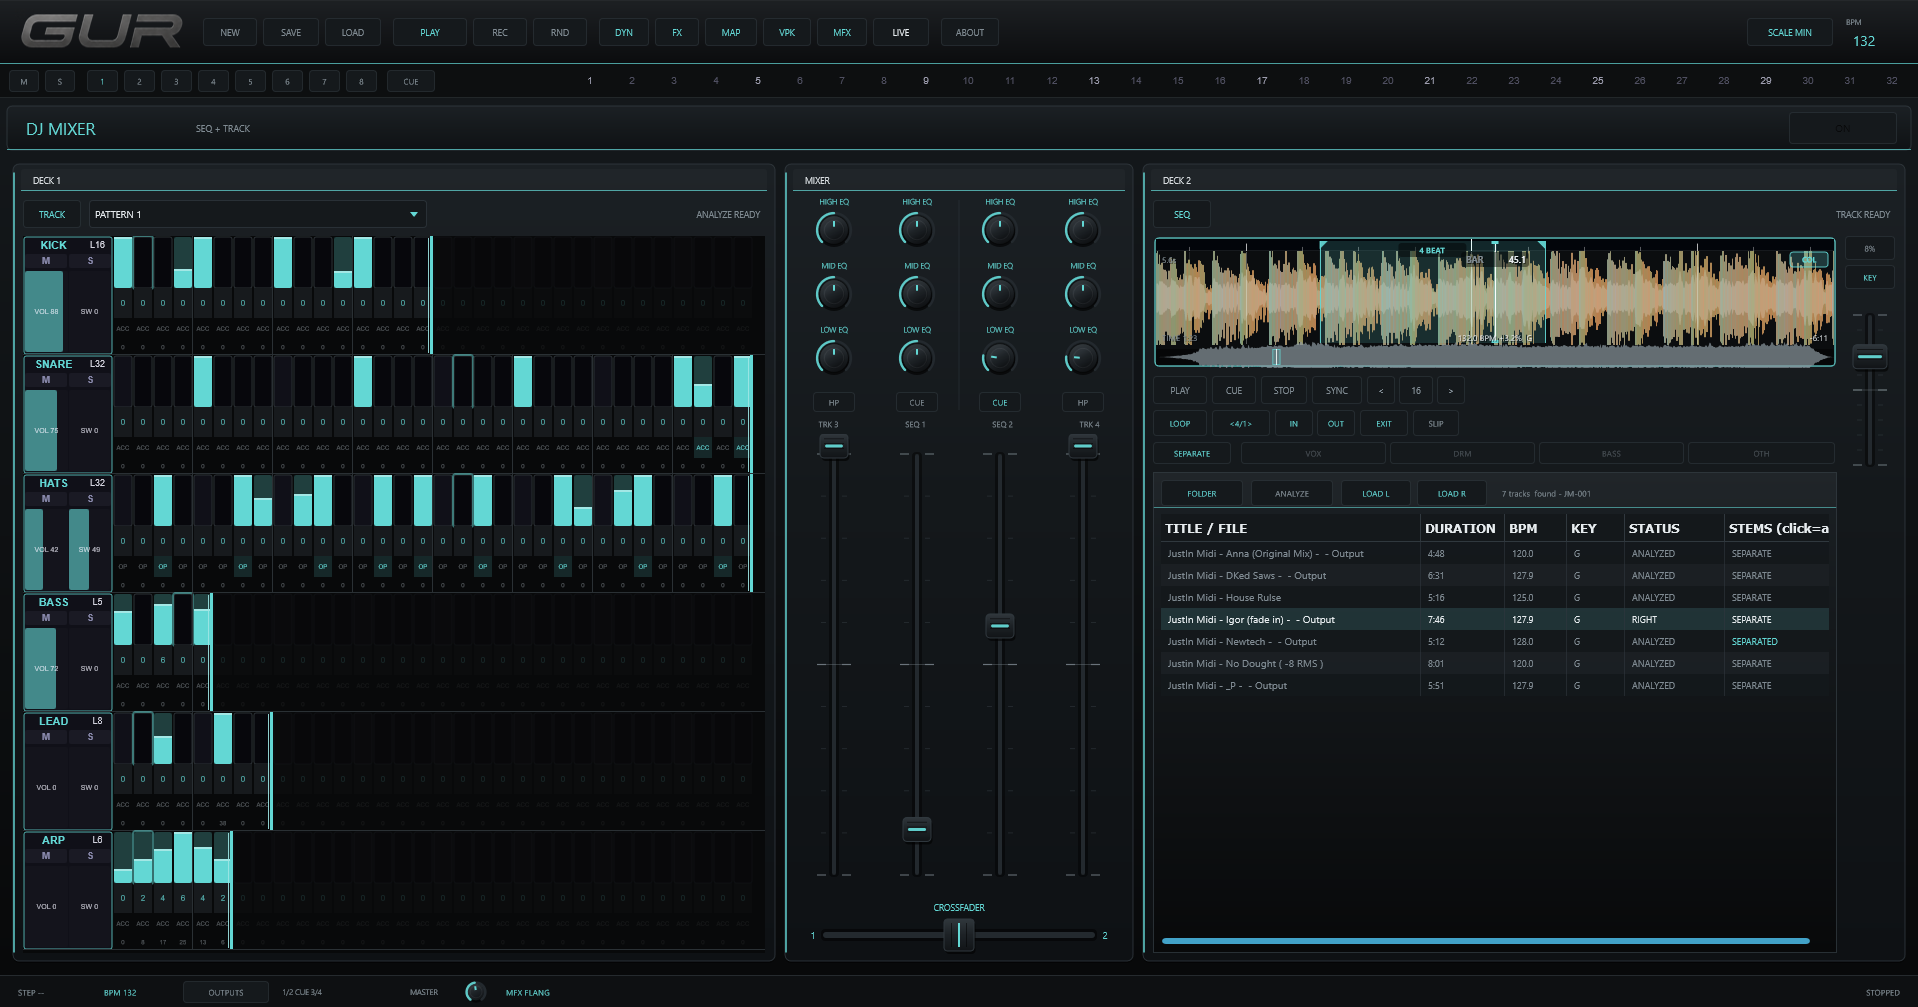
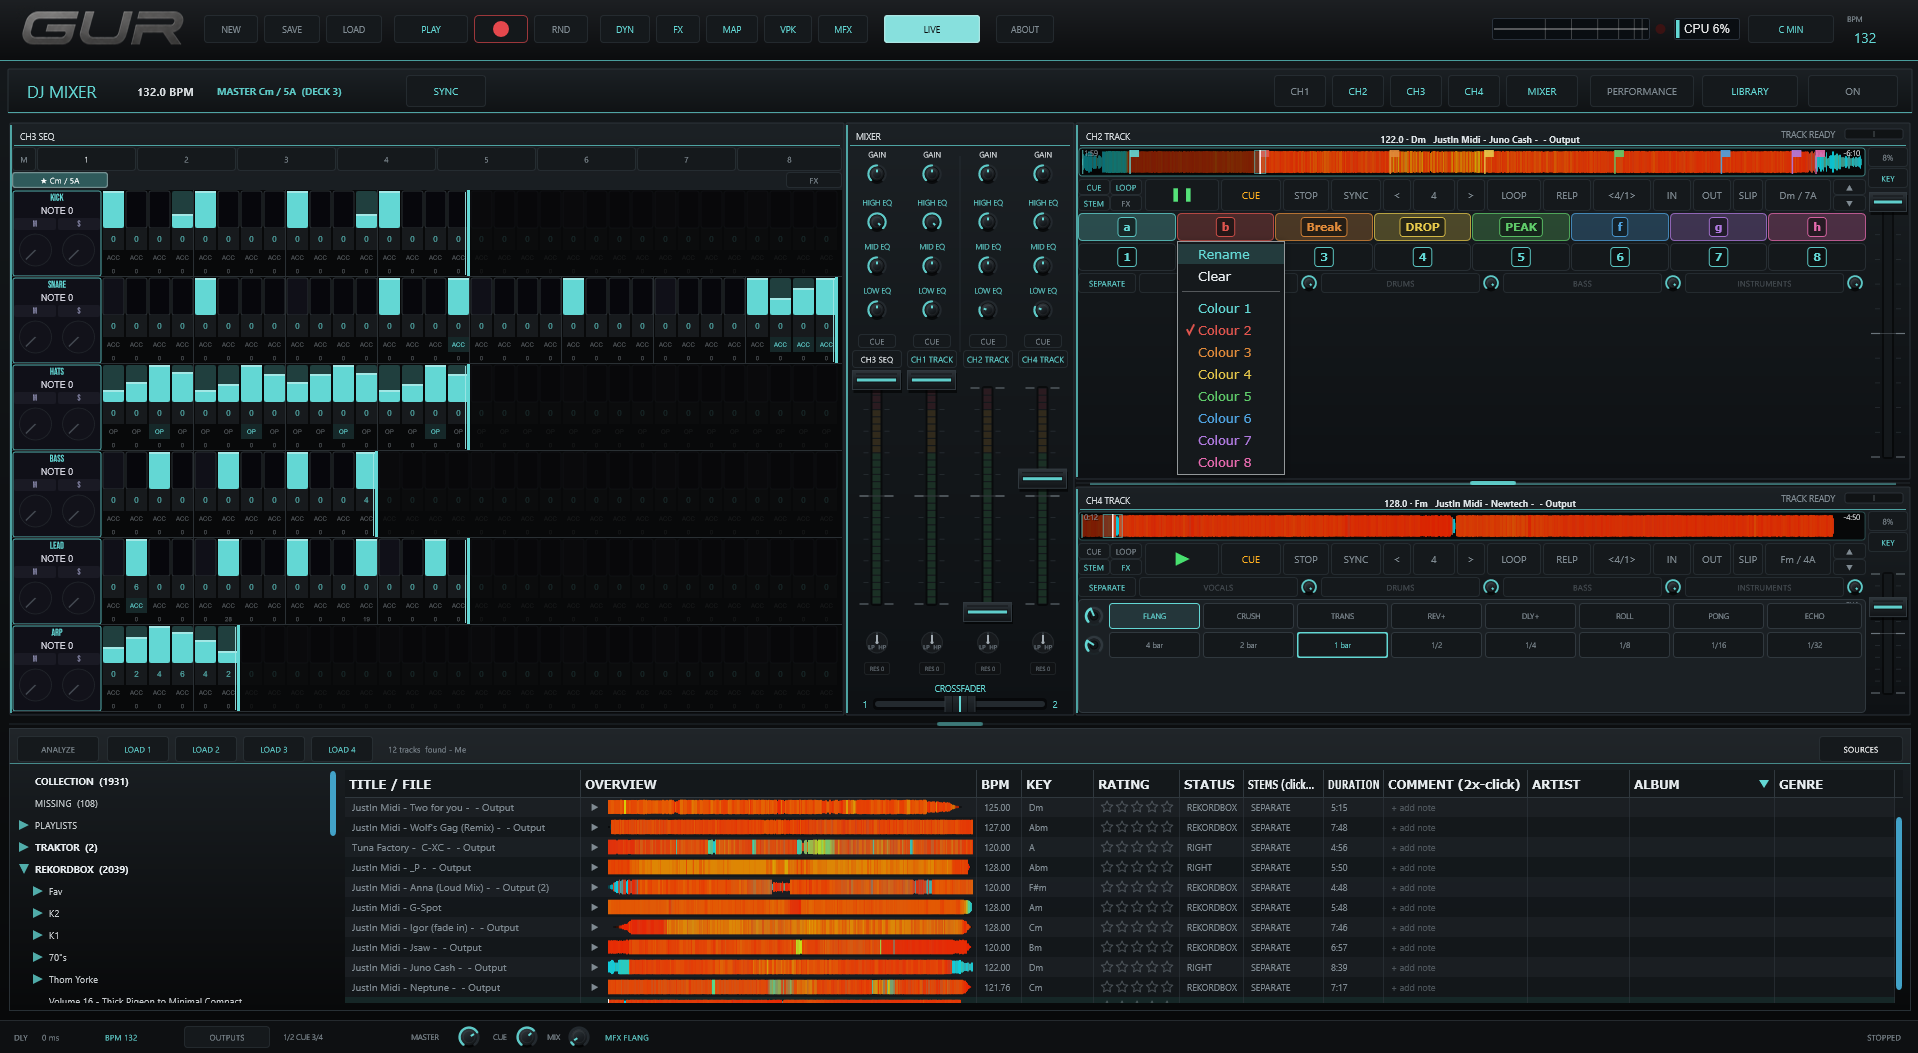
Update native-app screenshot gallery: replace with 7 new captures
Live mode, master FX/performance panel, MIDI mapping, DJ mode,
DJ library, performance waveforms, and the track-deck waveform band.

diff --git a/index.html b/index.html
@@ -92,9 +92,29 @@
         <img src="images/gur-live.png" alt="GUR live mode — mixer and 8-channel sequencer" loading="lazy">
         <figcaption>LIVE MODE — mixer + 8-channel sequencer</figcaption>
       </figure>
-      <figure class="shot" data-lightbox="1" tabindex="0" role="button" aria-label="Open larger view of DJ mode screenshot">
-        <img src="images/gur-dj.png" alt="GUR DJ mode — four decks, track library, mixer" loading="lazy">
-        <figcaption>DJ MODE — 4 decks (2 sequencer + 2 track) + track library</figcaption>
+      <figure class="shot" data-lightbox="1" tabindex="0" role="button" aria-label="Open larger view of master FX and performance panel screenshot">
+        <img src="images/gur-master-fx.png" alt="GUR master dynamics, channel FX engines and performance panel" loading="lazy">
+        <figcaption>MASTER FX — dynamics, channel FX engines + performance panel</figcaption>
+      </figure>
+      <figure class="shot" data-lightbox="2" tabindex="0" role="button" aria-label="Open larger view of MIDI mapping screenshot">
+        <img src="images/gur-midi-map.png" alt="GUR MIDI mapping dialog with per-device controller profiles" loading="lazy">
+        <figcaption>MIDI MAPPING — table-driven MIDI Learn, per-device profiles</figcaption>
+      </figure>
+      <figure class="shot" data-lightbox="3" tabindex="0" role="button" aria-label="Open larger view of DJ mode screenshot">
+        <img src="images/gur-dj.png" alt="GUR DJ mode — sequencer decks, track decks and DJ library" loading="lazy">
+        <figcaption>DJ MODE — sequencer decks, track decks + DJ library</figcaption>
+      </figure>
+      <figure class="shot" data-lightbox="4" tabindex="0" role="button" aria-label="Open larger view of DJ library screenshot">
+        <img src="images/gur-dj-library.png" alt="GUR DJ mixer with the built-in collection and playlists" loading="lazy">
+        <figcaption>DJ LIBRARY — collection, playlists + analysed overviews</figcaption>
+      </figure>
+      <figure class="shot" data-lightbox="5" tabindex="0" role="button" aria-label="Open larger view of performance waveform screenshot">
+        <img src="images/gur-performance.png" alt="GUR performance view — dual track-deck waveforms over decks and library" loading="lazy">
+        <figcaption>PERFORMANCE — dual track-deck waveforms, decks + library</figcaption>
+      </figure>
+      <figure class="shot" data-lightbox="6" tabindex="0" role="button" aria-label="Open larger view of track-deck waveform screenshot">
+        <img src="images/gur-dj-waveforms.png" alt="GUR waveform band with track decks and the sequencer" loading="lazy">
+        <figcaption>WAVEFORMS — track decks, beatgrids + sequencer</figcaption>
       </figure>
     </div>
   </section>
